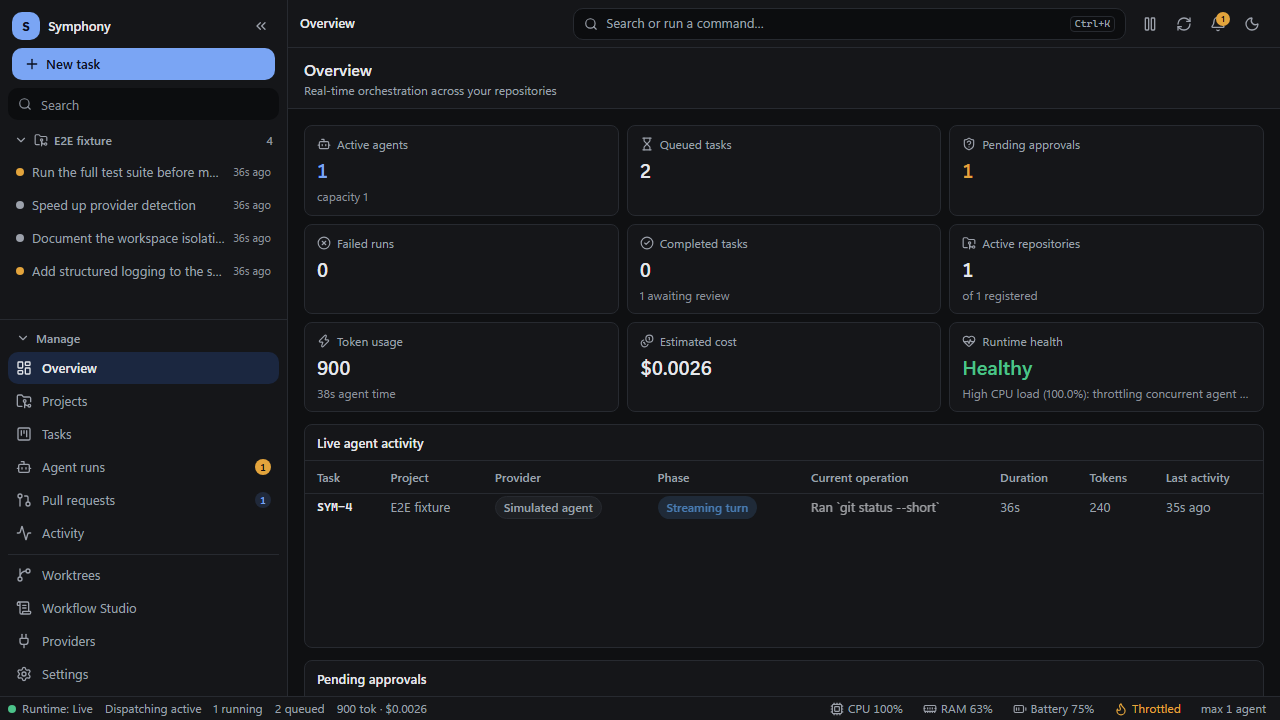
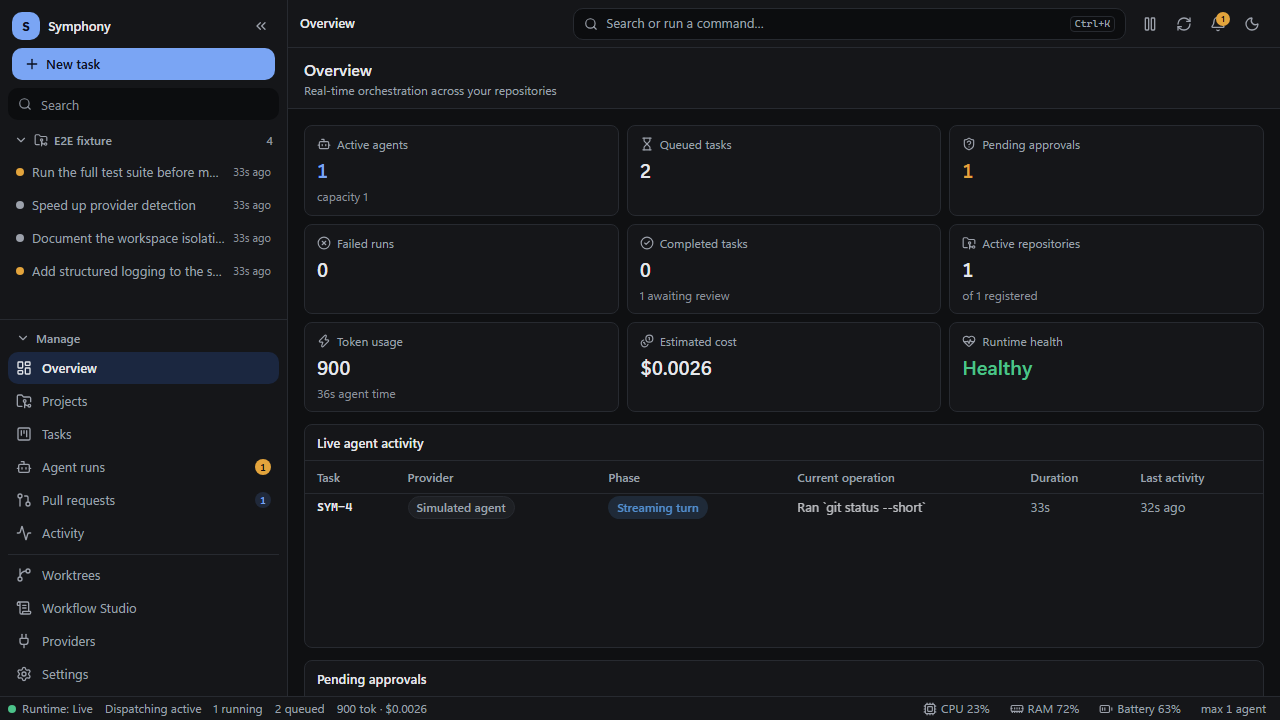
Stop the Overview live-sessions table clipping its last column
The eight-column table shares a row with the approvals panel and cut off
Last activity at 1440px. Project and Tokens, which are available
elsewhere, now show only on wide windows. Refresh the Overview
screenshots.

diff --git a/apps/desktop/src/features/overview/OverviewPage.tsx b/apps/desktop/src/features/overview/OverviewPage.tsx
@@ -2,7 +2,7 @@ import React, { useMemo, useState } from "react";
 import { useNavigate } from "react-router-dom";
 import { Activity, Bot, CheckCircle2, Coins, FolderGit2, HeartPulse, Hourglass, ShieldQuestion, XCircle, Zap } from "lucide-react";
 import { formatMessage, getTranslations, type ApprovalDecision, type ApprovalRequest } from "@symphony/shared-types";
-import { AiApprovalBanner, AiEmptyView, AiEventStreamCard, Button, Duration, ErrorState, formatCurrency, formatDuration, formatTokens, LoadingRows, MetricTile, PageHeader, Panel, PhaseBadge, ProviderBadge, StreamingText, TimeAgo } from "@symphony/ui";
+import { AiApprovalBanner, AiEmptyView, AiEventStreamCard, Button, Duration, ErrorState, formatCurrency, formatDuration, formatTokens, LoadingRows, MetricTile, PageHeader, Panel, PhaseBadge, ProviderBadge, StreamingText, TimeAgo, cn } from "@symphony/ui";
 import { paths } from "../../app/routes.js";
 import { useLocale, useMessages } from "../../lib/i18n.js";
 import { useApprovals, useDecideApproval, useProjects, useRecentEvents, useRuntimeState, useTasks } from "../../lib/queries.js";
@@ -11,6 +11,9 @@ import { useRuntime } from "../../runtime/RuntimeProvider.js";
 import { useUiStore } from "../../store/uiStore.js";
 import { overviewMessages } from "./messages.js";
 import { computeOverviewMetrics, recentTimeline } from "./overviewLogic.js";
+
+/** Columns that only get room on a wide page: the table shares the row with the approvals panel. */
+const OPTIONAL_COLUMN = "hidden @7xl:table-cell";
 
 const LiveSessions: React.FC = () => {
   const m = useMessages(overviewMessages);
@@ -43,9 +46,18 @@ const LiveSessions: React.FC = () => {
       <table className="w-full text-sm">
         <thead className="sticky top-0 bg-surface text-xs text-muted-foreground">
           <tr className="border-b border-border text-start">
-            {[m.live.task, m.live.project, m.live.provider, m.live.phase, m.live.operation, m.live.duration, m.live.tokens, m.live.lastActivity].map((h) => (
-              <th key={h} scope="col" className="h-8 whitespace-nowrap px-3 text-start font-medium">
-                {h}
+            {[
+              [m.live.task, ""],
+              [m.live.project, OPTIONAL_COLUMN],
+              [m.live.provider, ""],
+              [m.live.phase, ""],
+              [m.live.operation, ""],
+              [m.live.duration, ""],
+              [m.live.tokens, OPTIONAL_COLUMN],
+              [m.live.lastActivity, ""]
+            ].map(([label, extra]) => (
+              <th key={label} scope="col" className={cn("h-8 whitespace-nowrap px-3 text-start font-medium", extra)}>
+                {label}
               </th>
             ))}
           </tr>
@@ -63,7 +75,7 @@ const LiveSessions: React.FC = () => {
               className="h-row cursor-pointer border-b border-border last:border-0 hover:bg-surface-hover"
             >
               <td className="whitespace-nowrap px-3 font-mono text-xs font-medium text-foreground">{s.issue_identifier}</td>
-              <td className="max-w-40 truncate px-3 text-muted-foreground">{projectName.get(s.project_id) ?? "—"}</td>
+              <td className={cn("max-w-40 truncate px-3 text-muted-foreground", OPTIONAL_COLUMN)}>{projectName.get(s.project_id) ?? "—"}</td>
               <td className="px-3">
                 <ProviderBadge provider={s.provider} model={s.model} />
               </td>
@@ -76,7 +88,7 @@ const LiveSessions: React.FC = () => {
               <td className="whitespace-nowrap px-3 text-muted-foreground">
                 <Duration since={s.started_at} />
               </td>
-              <td className="px-3 tabular-nums text-muted-foreground">{formatTokens(s.tokens.total_tokens, locale)}</td>
+              <td className={cn("px-3 tabular-nums text-muted-foreground", OPTIONAL_COLUMN)}>{formatTokens(s.tokens.total_tokens, locale)}</td>
               <td className="px-3 text-muted-foreground">
                 <TimeAgo iso={s.last_event_at} />
               </td>

diff --git a/CHANGELOG.md b/CHANGELOG.md
@@ -116,7 +116,8 @@ one. The HTTP API is versioned separately (`API_VERSION`, see `CONTRIBUTING.md`)
   tracker, and the sidebar's view list is tall enough to show every entry without its own scrollbar. The
   concise run timeline leaves out the contentless "Event: item/started"-style protocol rows (the
   technical view keeps every event). Empty Kanban columns are slim, so more of the populated ones fit on
-  screen, and Settings shows *Reset* only once something has been edited.
+  screen, and Settings shows *Reset* only once something has been edited. The Overview live-sessions
+  table no longer clips its last column: Project and Tokens appear only on wide windows.
 - **One component system on the desktop**: Fluent UI and the OpenAI Apps SDK UI are removed from the
   desktop app and the shared UI package in favour of shadcn/ui (Radix) with Tailwind tokens, so controls,
   dialogs and tabs share one sizing, one set of breakpoints and one CSS layer order. Markdown uses
